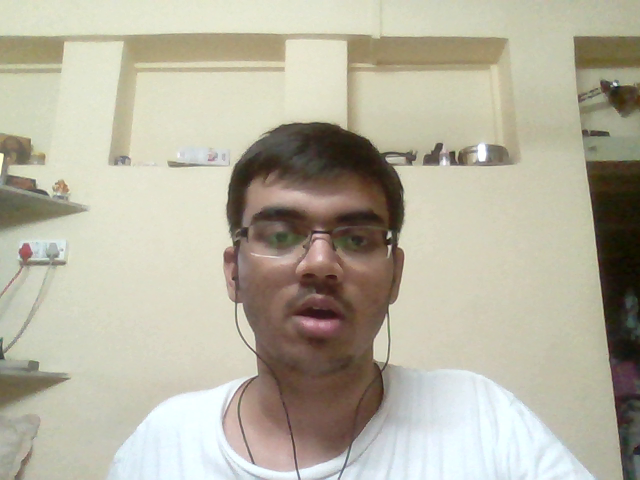
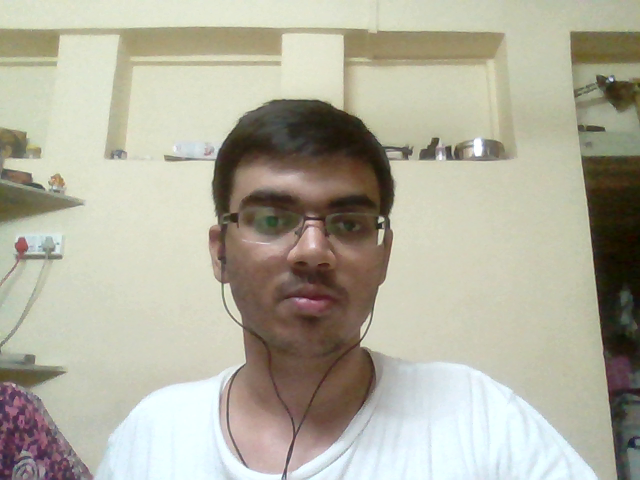
added face recognition and authentication

Changed region(s): [[0.0, 0.0312, 0.8125, 1.0], [0.8438, 0.0625, 1.0, 1.0], [0.75, 0.7812, 0.8438, 0.875]]

diff --git a/secura_drive/main/views.py b/secura_drive/main/views.py
@@ -90,7 +90,8 @@ def register(request):
         user = authenticate(
             request, username=data['username'], password=data['password'])
         djangoLogin(request, user)
-
+        save_user(imgPath='temp/test_img.png',
+                  username=data['username'])
         return redirect('/drive')
     if(not is_temp_empty()):
         empty_temp_folder()
@@ -103,13 +104,16 @@ def login(request):
         username = request.POST['username']
         password = request.POST['password']
         user = authenticate(request, username=username, password=password)
-        if user is not None:
+        res = authenticateUser(
+            imgPath='temp/test_img.png', username=username)
+        if user is not None and res == True:
             djangoLogin(request, user)
             return redirect('/drive')
         else:
             return redirect('/login')
     if(not is_temp_empty()):
         empty_temp_folder()
+    capture_image_from_cam_into_temp()
     return render(request, 'main/login.html')
 
 
